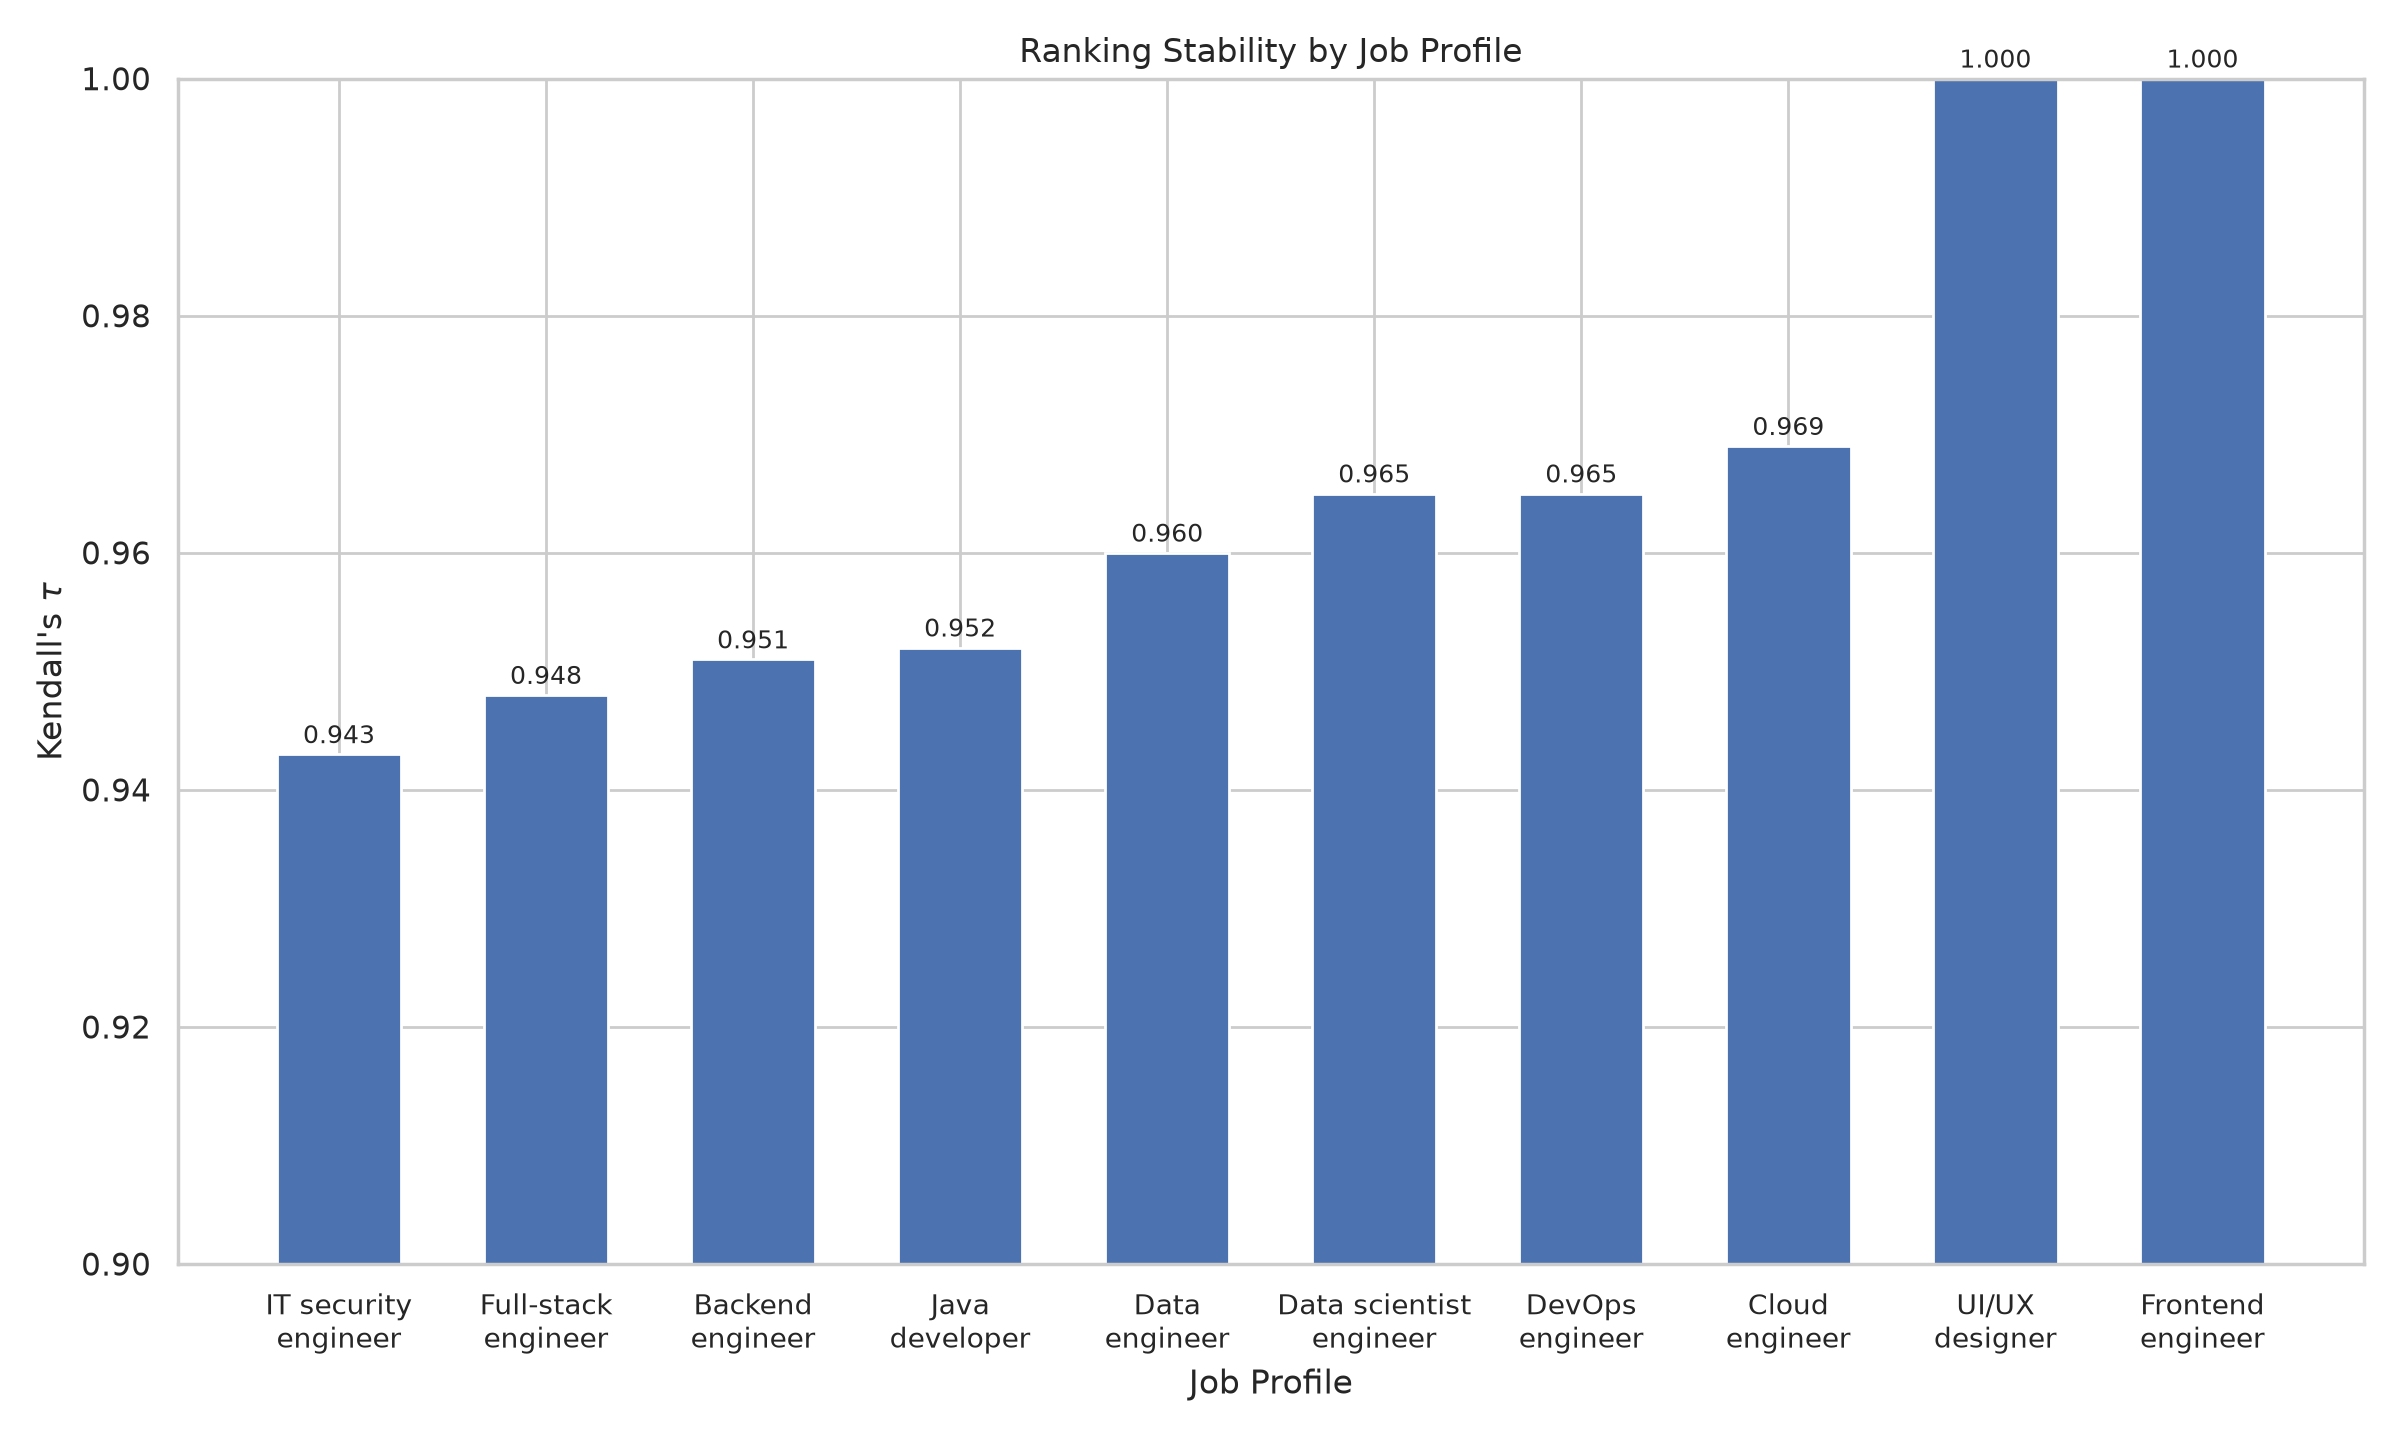
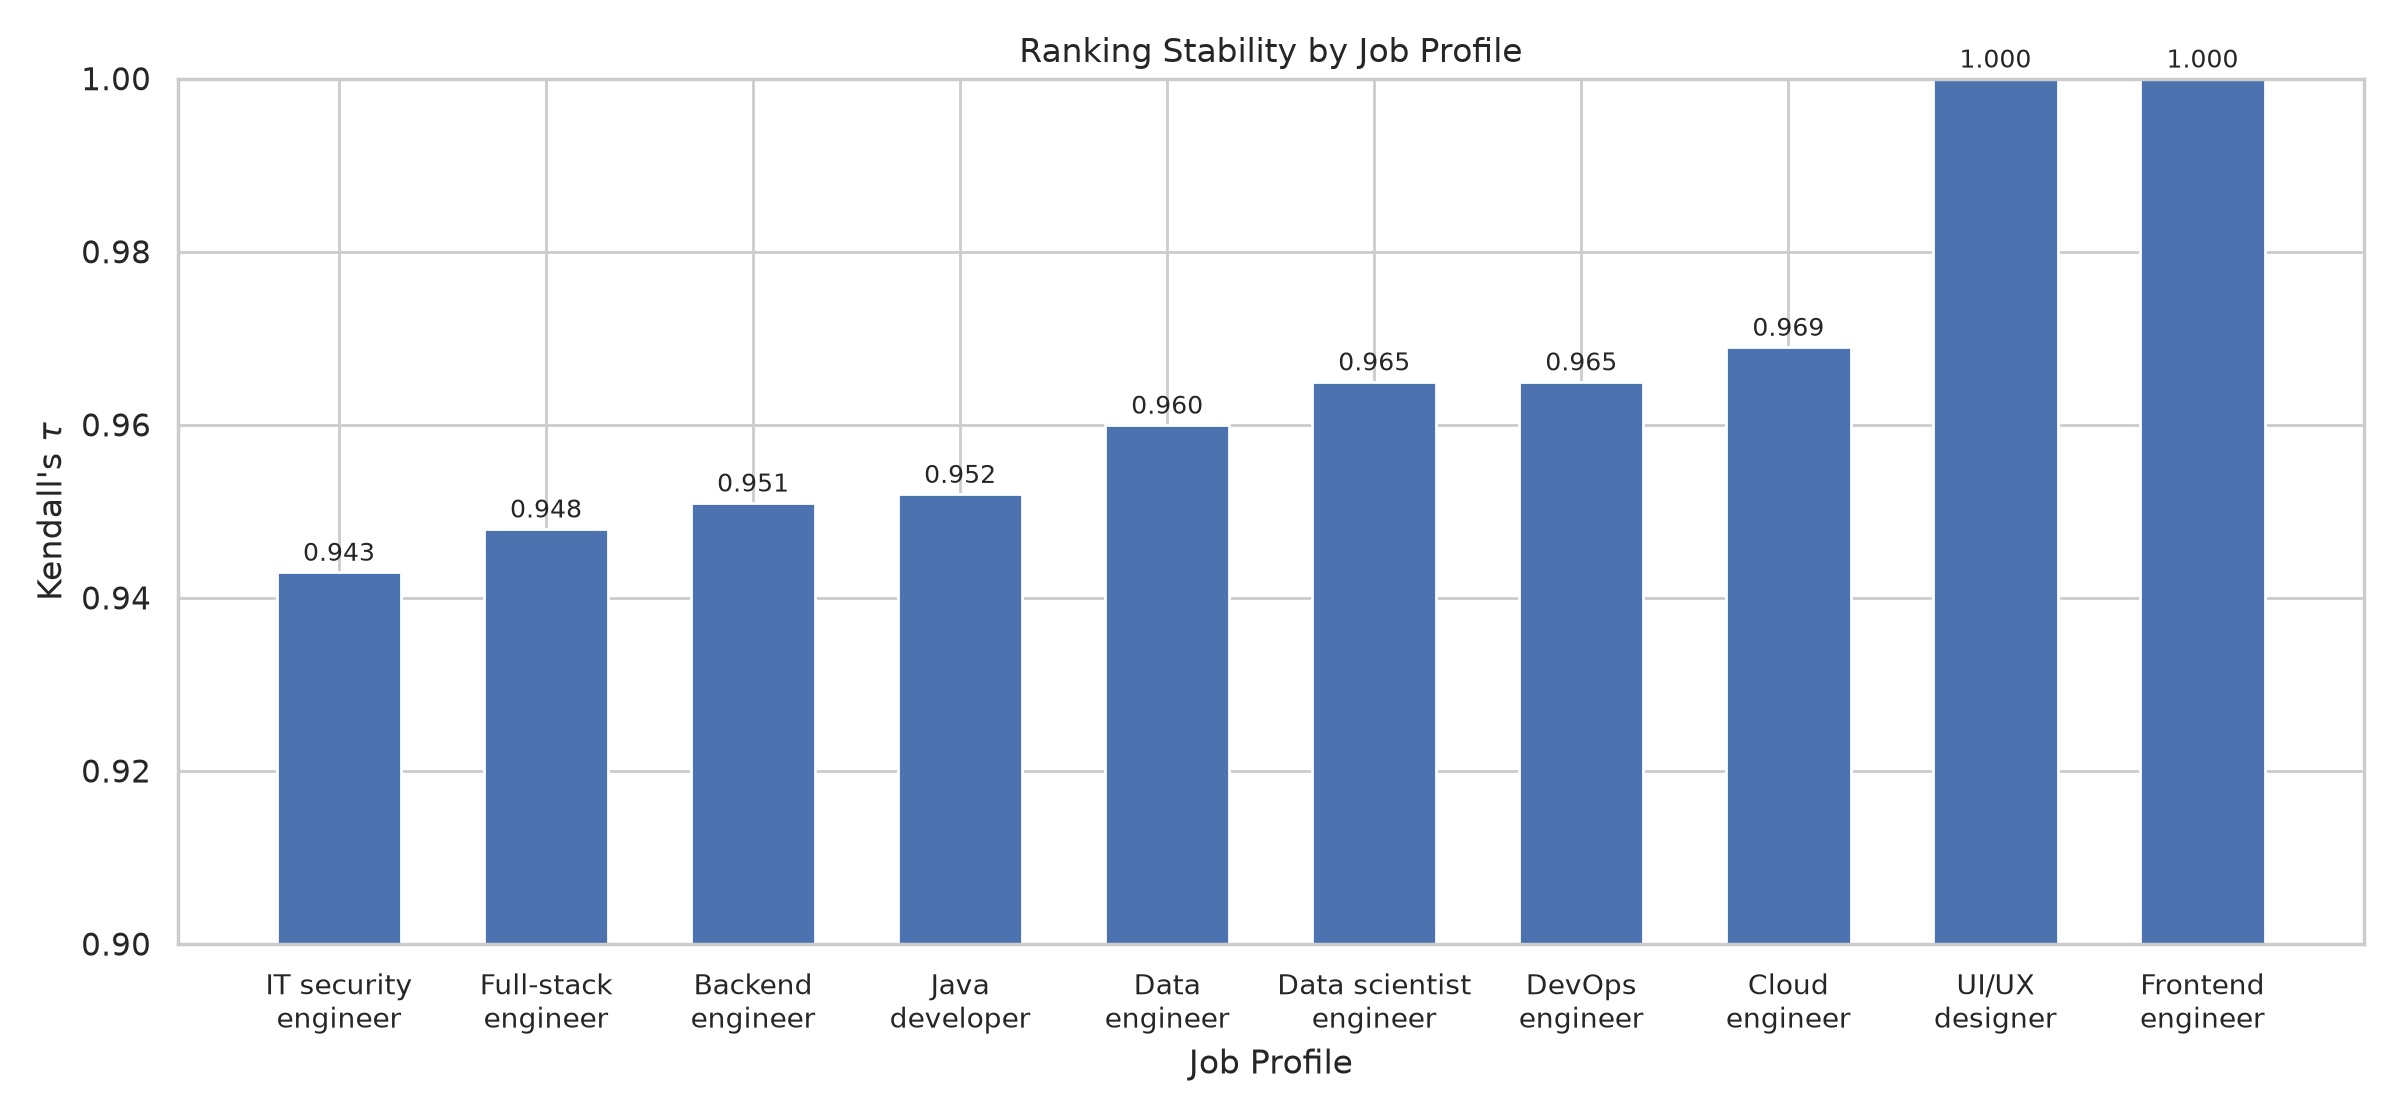
docs: reduce Figure 3 height (7.2in was too tall, settle on 5.6in)

diff --git a/docs/generate_paper_figures.py b/docs/generate_paper_figures.py
@@ -69,7 +69,7 @@ def ranking_stability_bar_chart(filename: str = "ranking_stability_chart.png"):
     ]
     tau = [0.943, 0.948, 0.951, 0.952, 0.960, 0.965, 0.965, 0.969, 1.000, 1.000]
 
-    fig, ax = plt.subplots(figsize=(12, 7.2))
+    fig, ax = plt.subplots(figsize=(12, 5.6))
     fig.patch.set_facecolor("white")
     ax.set_facecolor("white")
     bars = ax.bar(profiles, tau, width=0.6)
